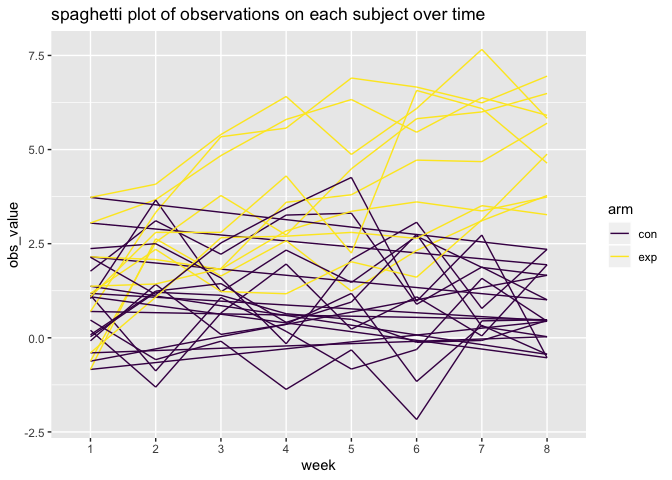
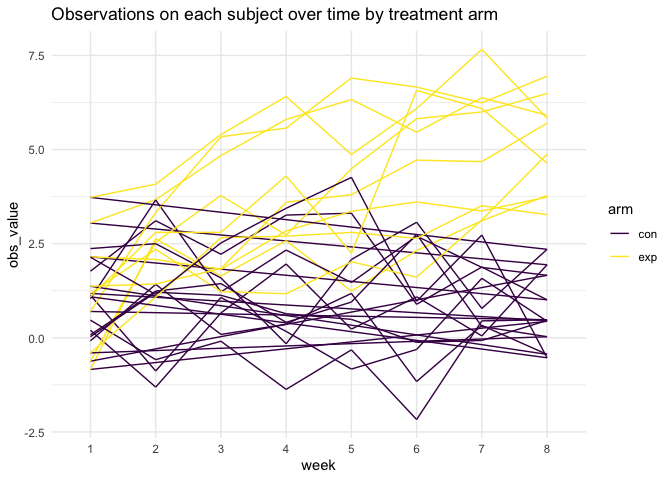
Edited comments for problem 2 and 3

diff --git a/p8105_hw5_xy2396.md b/p8105_hw5_xy2396.md
@@ -8,20 +8,7 @@ Xinyu Yang
 ``` r
 #introducing missing value:
 library(tidyverse)
-```
 
-    ## ── Attaching packages ────────────────────────── tidyverse 1.2.1 ──
-
-    ## ✔ ggplot2 3.2.1     ✔ purrr   0.3.2
-    ## ✔ tibble  2.1.3     ✔ dplyr   0.8.3
-    ## ✔ tidyr   1.0.0     ✔ stringr 1.4.0
-    ## ✔ readr   1.3.1     ✔ forcats 0.4.0
-
-    ## ── Conflicts ───────────────────────────── tidyverse_conflicts() ──
-    ## ✖ dplyr::filter() masks stats::filter()
-    ## ✖ dplyr::lag()    masks stats::lag()
-
-``` r
 set.seed(10)
 
 iris_with_missing = iris %>% 
@@ -144,15 +131,19 @@ study %>%
   select(-a) %>% 
   ggplot(aes(x = week, y = obs_value, group = id, color = arm)) +
   geom_path() + 
-  labs(title = "spaghetti plot of observations on each subject over time") + 
+  labs(title = "Observations on each subject over time by treatment arm") + 
   viridis::scale_color_viridis(
     discrete = TRUE) + 
+  theme_minimal() +
   theme(legend.position = "right")
 ```
 
 ![](p8105_hw5_xy2396_files/figure-gfm/unnamed-chunk-4-1.png)<!-- -->
 
-From the plot we can see ….. (comment the plot)
+From the plot we can see that over time, the observed value of subjects
+in experiment group were generally increasing while the observed value
+of subjects in control group remained relatively unchanged or decreased
+a little.
 
 ## Problem 3
 
@@ -192,13 +183,15 @@ sim_results %>%
   ggplot(aes(x = beta_true, y = p_reject)) +
   geom_point() +
   geom_line() +
-  scale_x_continuous("True Beta", breaks = c(1:6)) 
+  scale_x_continuous("True Beta", breaks = c(1:6)) +
+  theme_minimal()
 ```
 
 ![](p8105_hw5_xy2396_files/figure-gfm/unnamed-chunk-5-1.png)<!-- -->
 
-From the plot of proportion of reject the null and true beta, we can
-see…
+From the plot of proportion of reject the null and true beta, we can see
+that the power increases as the effect size increases (from beta = 1 to
+beta = 6)
 
 ``` r
 #plot2
@@ -218,9 +211,19 @@ df_1 %>%
   ggplot(aes(x = beta_true, y = value, label = round(value,1))) +
   geom_line(aes(color = estimate)) +
   geom_text(vjust = 0, nudge_y = 0.8, aes(color = estimate)) +
-  scale_x_continuous("True Beta", breaks = c(1:6))
+  scale_x_continuous("True Beta", breaks = c(1:6)) +
+  theme_minimal()
 ```
 
 ![](p8105_hw5_xy2396_files/figure-gfm/unnamed-chunk-6-1.png)<!-- -->
 
-From the plot above, we can see
+From the plot above, we can see that the sample average of estimated
+beta1 across tests among those rejected the null are very different from
+the true value of beta1.
+
+It is because in this simulation, the sample sizes are very small (n =
+30) while the variance is large (var = 50), which results in a large
+standard error and requires a relatively large effect size to reject the
+null hypothesis. Thus, the betas that reject the null are those with
+large effect size (i.e. large estimated value) instead of those close to
+the true beta (which are relativley small).
